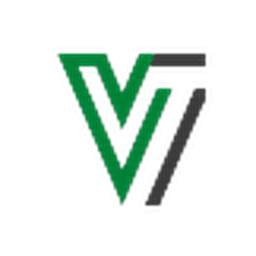
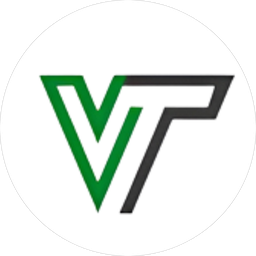
Update 1.6.0

Changed region(s): [[0.1562, 0.1875, 0.9375, 0.8438]]

diff --git a/src/app/(app)/estoque/estoque-client.tsx b/src/app/(app)/estoque/estoque-client.tsx
@@ -155,6 +155,15 @@ export default function EstoqueClient({ canEdit = false }: { canEdit?: boolean }
               </button>
             </div>
 
+            <div className="flex flex-wrap gap-x-4 gap-y-1.5 mb-4 text-xs text-[var(--muted)]">
+              {STATUS_CONTAINER.map((s) => (
+                <span key={s} className="inline-flex items-center gap-1.5">
+                  <StatusBadge status={s} />
+                  {STATUS_LABELS[s]}
+                </span>
+              ))}
+            </div>
+
             <div className="flex flex-col sm:flex-row sm:flex-wrap gap-3 sm:items-end mb-4">
               <div>
                 <label className="text-xs font-medium text-[var(--muted)] block mb-1">Buscar número</label>
@@ -209,13 +218,11 @@ export default function EstoqueClient({ canEdit = false }: { canEdit?: boolean }
                     <th className="px-3 py-2 font-medium">Status</th>
                     <th className="px-3 py-2 font-medium">Entrada</th>
                     <th className="px-3 py-2 font-medium">Dias em estoque</th>
-                    <th className="px-3 py-2 font-medium">Valor (oficina)</th>
                   </tr>
                 </thead>
                 <tbody>
                   {detalhesFiltrados.map((c) => {
                     const dias = diasEmEstoque(c.entrada);
-                    const valor = c.valor_reparo ?? c.valor_estimado;
                     return (
                       <tr key={c.numero} className="border-b border-[var(--border)] last:border-0 hover:bg-gray-50">
                         <td className="px-3 py-2 font-medium">{c.numero}</td>
@@ -248,17 +255,12 @@ export default function EstoqueClient({ canEdit = false }: { canEdit?: boolean }
                           {c.entrada ? formatDateBR(c.entrada) : "—"}
                         </td>
                         <td className="px-3 py-2 text-[var(--muted)]">{dias !== null ? `${dias} dia(s)` : "—"}</td>
-                        <td className="px-3 py-2">
-                          {valor
-                            ? `R$ ${Number(valor).toLocaleString("pt-BR", { minimumFractionDigits: 2 })}${c.valor_reparo ? "" : " (estimado)"}`
-                            : "—"}
-                        </td>
                       </tr>
                     );
                   })}
                   {!loadingDetalhe && detalhesFiltrados.length === 0 && (
                     <tr>
-                      <td colSpan={7} className="px-3 py-8 text-center text-[var(--muted)]">
+                      <td colSpan={6} className="px-3 py-8 text-center text-[var(--muted)]">
                         Nenhum container encontrado.
                       </td>
                     </tr>

diff --git a/src/app/api/containers/export/route.ts b/src/app/api/containers/export/route.ts
@@ -38,21 +38,7 @@ export async function GET(req: NextRequest) {
         )
       )
     )
-    .select((eb) => [
-      "c.numero",
-      "c.armador",
-      "c.padrao",
-      "c.status",
-      "c.tipo",
-      "c.entrada",
-      eb
-        .selectFrom("reparos as r")
-        .select("r.valor_faturado")
-        .whereRef("r.container_numero", "=", "c.numero")
-        .orderBy("r.data", "desc")
-        .limit(1)
-        .as("valor_reparo"),
-    ])
+    .select(["c.numero", "c.armador", "c.padrao", "c.status", "c.tipo", "c.entrada"])
     .orderBy("c.numero");
 
   if (status) query = query.where("c.status", "=", status as never);
@@ -74,7 +60,6 @@ export async function GET(req: NextRequest) {
     { header: "Descrição Status", key: "statusDesc", width: 28 },
     { header: "Entrada", key: "entrada", width: 14 },
     { header: "Dias em estoque", key: "dias", width: 16 },
-    { header: "Valor (oficina)", key: "valor", width: 16 },
   ];
   sheet.getRow(1).font = { bold: true };
 
@@ -89,7 +74,6 @@ export async function GET(req: NextRequest) {
       statusDesc: STATUS_LABELS[c.status as StatusContainer] ?? "",
       entrada: c.entrada ? formatDateBR(c.entrada as unknown as string) : "",
       dias: diasEmEstoque(c.entrada as unknown as string) ?? "",
-      valor: c.valor_reparo ? Number(c.valor_reparo) : "",
     });
   }
 

diff --git a/src/components/status-badge.tsx b/src/components/status-badge.tsx
@@ -1,4 +1,4 @@
-import { STATUS_LABELS, type StatusContainer } from "@/lib/types";
+import type { StatusContainer } from "@/lib/types";
 
 const STYLES: Record<StatusContainer, string> = {
   WS: "bg-gray-100 text-gray-700",
@@ -12,7 +12,7 @@ export default function StatusBadge({ status }: { status: StatusContainer }) {
   return (
     <span className={`badge ${STYLES[status]}`}>
       <span className="w-1.5 h-1.5 rounded-full bg-current opacity-70" />
-      {status} · {STATUS_LABELS[status]}
+      {status}
     </span>
   );
 }

diff --git a/src/app/layout.tsx b/src/app/layout.tsx
@@ -3,7 +3,6 @@ import "./globals.css";
 
 export const metadata: Metadata = {
   title: "Vale do Tibagi - Depot SJP",
-  description: "Sistema de Gestão para Depot de Containers - Estoque e Reparos",
 };
 
 export default function RootLayout({

diff --git a/CHANGELOG.md b/CHANGELOG.md
@@ -5,6 +5,26 @@ tela de login vem do campo `version` do `package.json` (veja `src/lib/version.ts
 Ao lançar uma mudança relevante, atualize o `version` no `package.json` e
 adicione uma entrada aqui.
 
+## 1.6.0 — 2026-08-14
+
+- Permissões: conceder uma aba extra a um usuário (Importação, Coletas ou
+  Oficina) agora libera de verdade a ação principal daquela aba (subir
+  planilha, registrar coleta, registrar reparo), mesmo fora do perfil padrão.
+- Coletas: a data registrada ao confirmar uma coleta vinda da Programação
+  passou a ser a data solicitada (não mais o momento da confirmação no
+  sistema), evitando contagem no dia errado; adicionado campo para informar
+  a data real quando ela for diferente da solicitada.
+- Menu lateral: passou a ficar escondido por padrão, abrindo só pelo botão
+  de 3 barras; o perfil do usuário (Gestor, Mecânico etc.) foi movido para
+  baixo do nome, no rodapé do menu.
+- Estoque: status das unidades no popout agora mostram só o código (WS, AR,
+  AE, RE, OK), com uma legenda no topo explicando cada um; coluna "Valor
+  (oficina)" removida da tela e do Excel exportado.
+- Identidade visual: nova logo/favicon (círculo branco) usada na aba do
+  navegador e na prévia de link.
+- Ambiente de homologação atualizado com uma cópia fiel dos dados de
+  produção, para testes mais realistas.
+
 ## 1.5.0 — 2026-08-12/14
 
 - Oficina: bloqueio de reparo duplicado (container com status OK não pode
